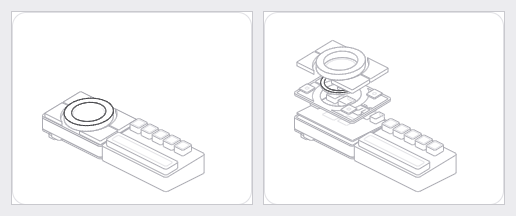
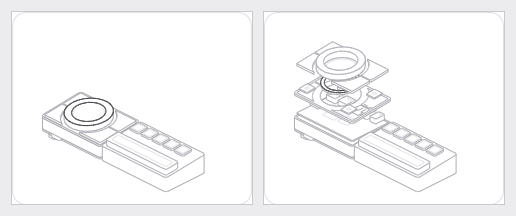
Lower soft keys and macro keycaps closer to the panel

diff --git a/visualization/hairline-keyboard-hub.html b/visualization/hairline-keyboard-hub.html
@@ -917,7 +917,7 @@ function mount({stage,svg,read},value) {
   add('上壳',RECT(-48,-34,54,34,4),17.6,20,2,{tilt:true,holes:[CIRCLE(25),...KEYS]});
   CENTERS.forEach(([x,y],i)=>{
     add('感应板'+(i+1),RECT(x-7,y-7,x+7,y+7),16,17.6,2.5,{tilt:true,marks2:[RECT(x-2,y-2,x+2,y+2,.5)]});
-    add('软键'+(i+1),KEYS[i],18,23,4.5,{tilt:true});
+    add('软键'+(i+1),KEYS[i],18,21,4.5,{tilt:true});
   });
   for(const a of [30,150,270]) {
     const x=19*Math.cos(a*Math.PI/180),y=19*Math.sin(a*Math.PI/180);
@@ -932,7 +932,7 @@ function mount({stage,svg,read},value) {
   add('Type-C公头',RECT(-22,-47,-12,-40,.8),6,9.8,0);
   add('STOP',RECT(32,-35,42,-32,1),10,14,0);
   add('五键模块',RECT(55,-34,167,34,4),0,20,0,{kind:'macro',tilt:true,flatBase:true});
-  for(let i=0;i<5;i++)add('宏键'+(i+1),RECT(66+i*19.05-8,12,66+i*19.05+8,28,2),21,29,0,{kind:'macro',tilt:true,marks2:[RECT(66+i*19.05-6,14,66+i*19.05+6,26,1.5)]});
+  for(let i=0;i<5;i++)add('宏键'+(i+1),RECT(66+i*19.05-8,12,66+i*19.05+8,28,2),20.6,23,0,{kind:'macro',tilt:true,marks2:[RECT(66+i*19.05-6,14,66+i*19.05+6,26,1.5)]});
   add('触控条',RECT(59,-30,163,-8,3),20,28,0,{kind:'strip',tilt:true,marks2:[RECT(64,-25,158,-13,2)]});
   for(const y of [-9,9]) {
     add('主机磁吸座',RECT(51.5,y-2,54,y+2,.8),10,14,0);
@@ -996,7 +996,7 @@ hairline({
   name:'keyboard-hub',
   means:'左小右长，圆心不动。悬停拆看主机与磁吸附件，点击固定、再次点击或点空白复位；滑块为展示分离距离（mm）。尺寸为装配候选，尚未完成制造验证。',
   rules:[1,3,4,6,7,8,9,10], range:[8,16,24],
-  tour:[[77,172],[127,166],[257,206],[217,232],null], mount,
+  tour:[[77,172],[127,166],[257,213],[217,232],null], mount,
 });
 </script>
 </body>

diff --git a/visualization/keyboard-hub.js b/visualization/keyboard-hub.js
@@ -40,7 +40,7 @@ function mount({stage,svg,read},value) {
   add('上壳',RECT(-48,-34,54,34,4),17.6,20,2,{tilt:true,holes:[CIRCLE(25),...KEYS]});
   CENTERS.forEach(([x,y],i)=>{
     add('感应板'+(i+1),RECT(x-7,y-7,x+7,y+7),16,17.6,2.5,{tilt:true,marks2:[RECT(x-2,y-2,x+2,y+2,.5)]});
-    add('软键'+(i+1),KEYS[i],18,23,4.5,{tilt:true});
+    add('软键'+(i+1),KEYS[i],18,21,4.5,{tilt:true});
   });
   for(const a of [30,150,270]) {
     const x=19*Math.cos(a*Math.PI/180),y=19*Math.sin(a*Math.PI/180);
@@ -55,7 +55,7 @@ function mount({stage,svg,read},value) {
   add('Type-C公头',RECT(-22,-47,-12,-40,.8),6,9.8,0);
   add('STOP',RECT(32,-35,42,-32,1),10,14,0);
   add('五键模块',RECT(55,-34,167,34,4),0,20,0,{kind:'macro',tilt:true,flatBase:true});
-  for(let i=0;i<5;i++)add('宏键'+(i+1),RECT(66+i*19.05-8,12,66+i*19.05+8,28,2),21,29,0,{kind:'macro',tilt:true,marks2:[RECT(66+i*19.05-6,14,66+i*19.05+6,26,1.5)]});
+  for(let i=0;i<5;i++)add('宏键'+(i+1),RECT(66+i*19.05-8,12,66+i*19.05+8,28,2),20.6,23,0,{kind:'macro',tilt:true,marks2:[RECT(66+i*19.05-6,14,66+i*19.05+6,26,1.5)]});
   add('触控条',RECT(59,-30,163,-8,3),20,28,0,{kind:'strip',tilt:true,marks2:[RECT(64,-25,158,-13,2)]});
   for(const y of [-9,9]) {
     add('主机磁吸座',RECT(51.5,y-2,54,y+2,.8),10,14,0);
@@ -119,5 +119,5 @@ hairline({
   name:'keyboard-hub',
   means:'左小右长，圆心不动。悬停拆看主机与磁吸附件，点击固定、再次点击或点空白复位；滑块为展示分离距离（mm）。尺寸为装配候选，尚未完成制造验证。',
   rules:[1,3,4,6,7,8,9,10], range:[8,16,24],
-  tour:[[77,172],[127,166],[257,206],[217,232],null], mount,
+  tour:[[77,172],[127,166],[257,213],[217,232],null], mount,
 });

diff --git a/visualization/README.md b/visualization/README.md
@@ -22,6 +22,8 @@
 
 左/右键面外缘−45/+51、共心R34.5凹弧，外角R1；源码离散轮廓面积约487.70/669.20 mm²，面积比约1:1.372。机械文档488.01/669.51是未倒圆积分值，两者差异来自倒圆和圆弧离散。
 
+按用户反馈降低按键：四软键高出面板1 mm（原3），右侧五键帽高出面板3 mm（原9）；平面轮廓、感应中心、环/屏幕高度不变。五键应配合下沉安装或薄型轴帽核对真实堆叠，不能直接把普通轴体缩短；这是外观目标，不是已验证的机械行程。
+
 屏幕厚度按3.5预算；三点支撑、导向、防转和限位仅表达结构关系。PCB上的芯片、插座、触点和磁体是功能/包络占位；没有完成电气引脚、生产孔位、应力/FPC弯折、温升、USB信号或磁传感校准验证。显示图不能用作加工图或Gerber。
 
 ### 重建

diff --git a/mechanical/dimensions-r2.md b/mechanical/dimensions-r2.md
@@ -19,6 +19,8 @@
 | 左侧①④ | 外边界X=−45 |
 | 右侧②③ | 外边界X=+51；相对左侧镜像向外增加6 |
 | 四键内侧凹弧 | 与屏幕同心，R34.5；至Ø60外环名义平面间隔4.5 |
+| 四软键露出面板高度 | 1；原展示3，按用户反馈降低2；内部弹性结构及行程待样件验证 |
+| 五机械键帽露出面板高度 | 3；原展示9，降低6；采用下沉安装/薄型轴帽研究方向，须按实物轴帽堆叠验证 |
 | 上下键间隔／外边界 | Y=[−31,−0.75]或[+0.75,+31]，间隔1.5；外侧角R1 |
 | 感应中心 | ①(−36,+22)、②(+36,+22)、③(+36,−22)、④(−36,−22) |
 
